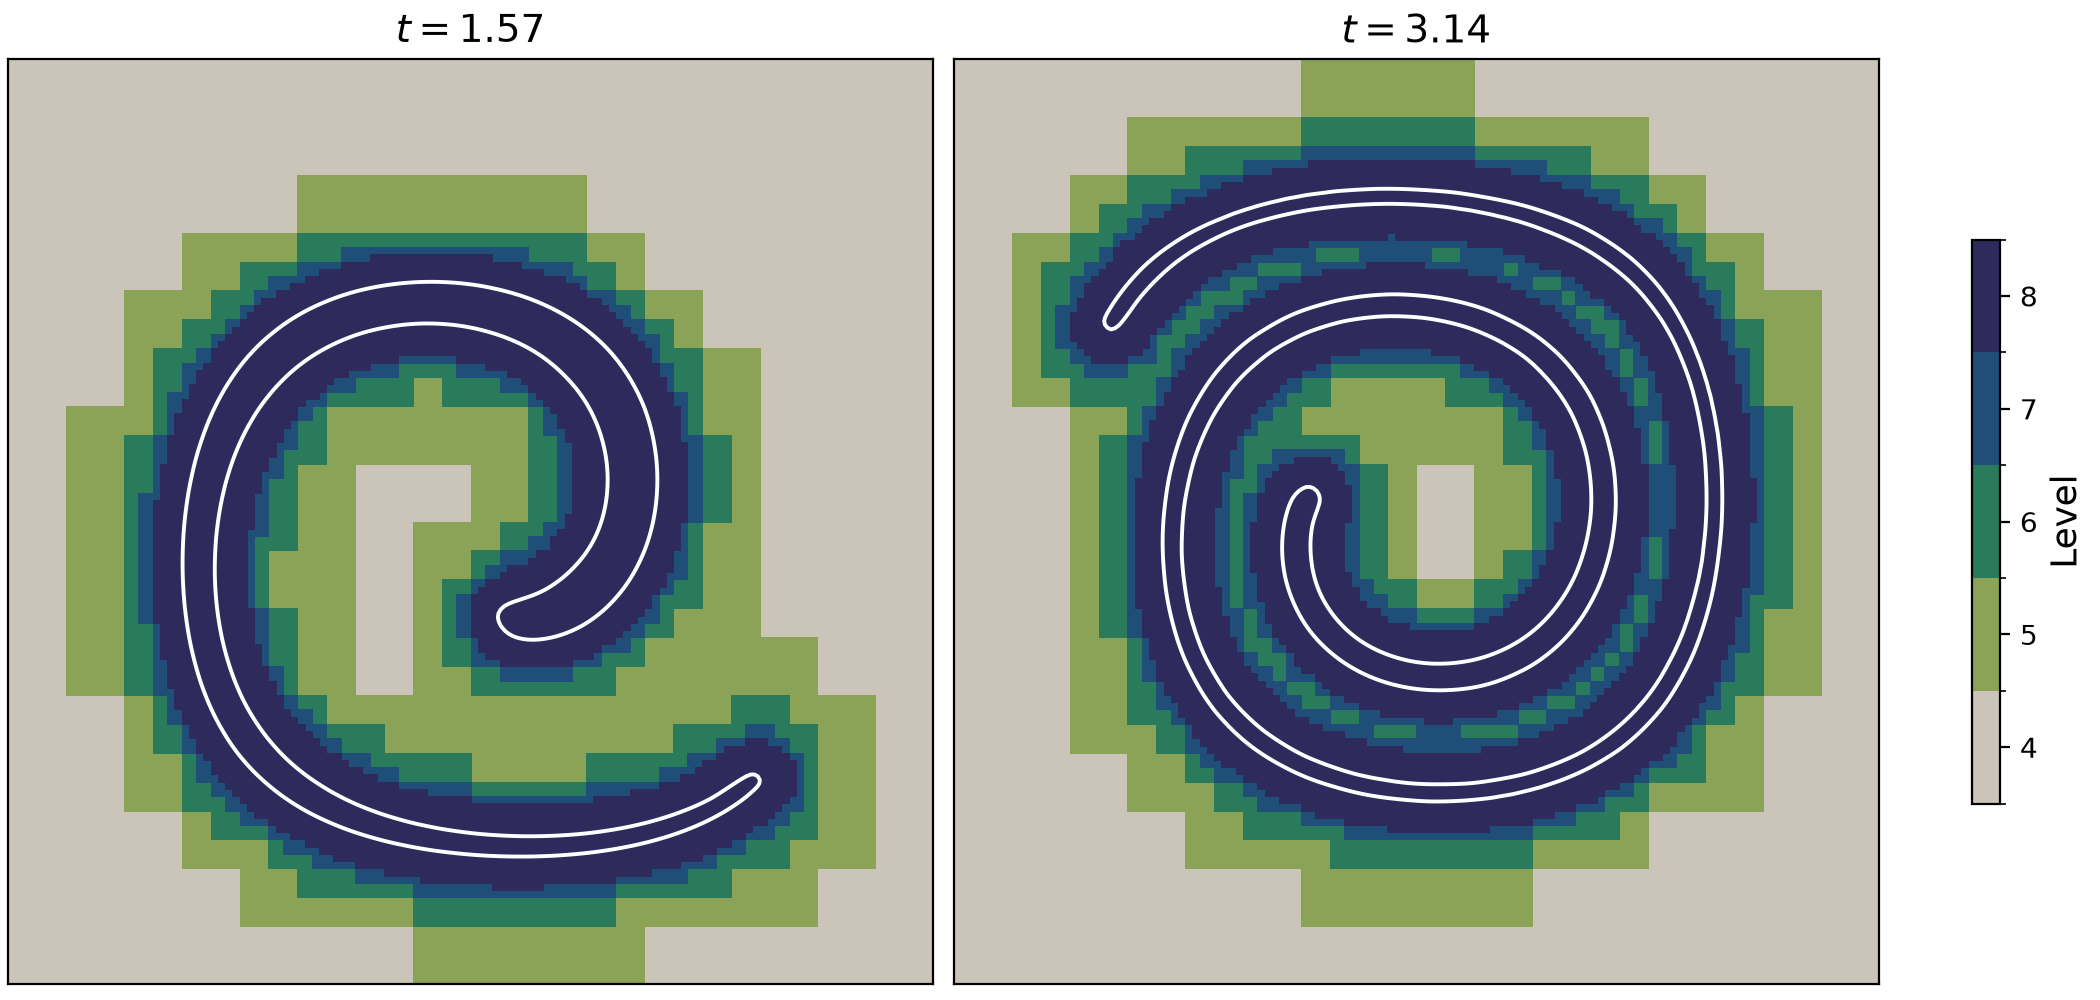
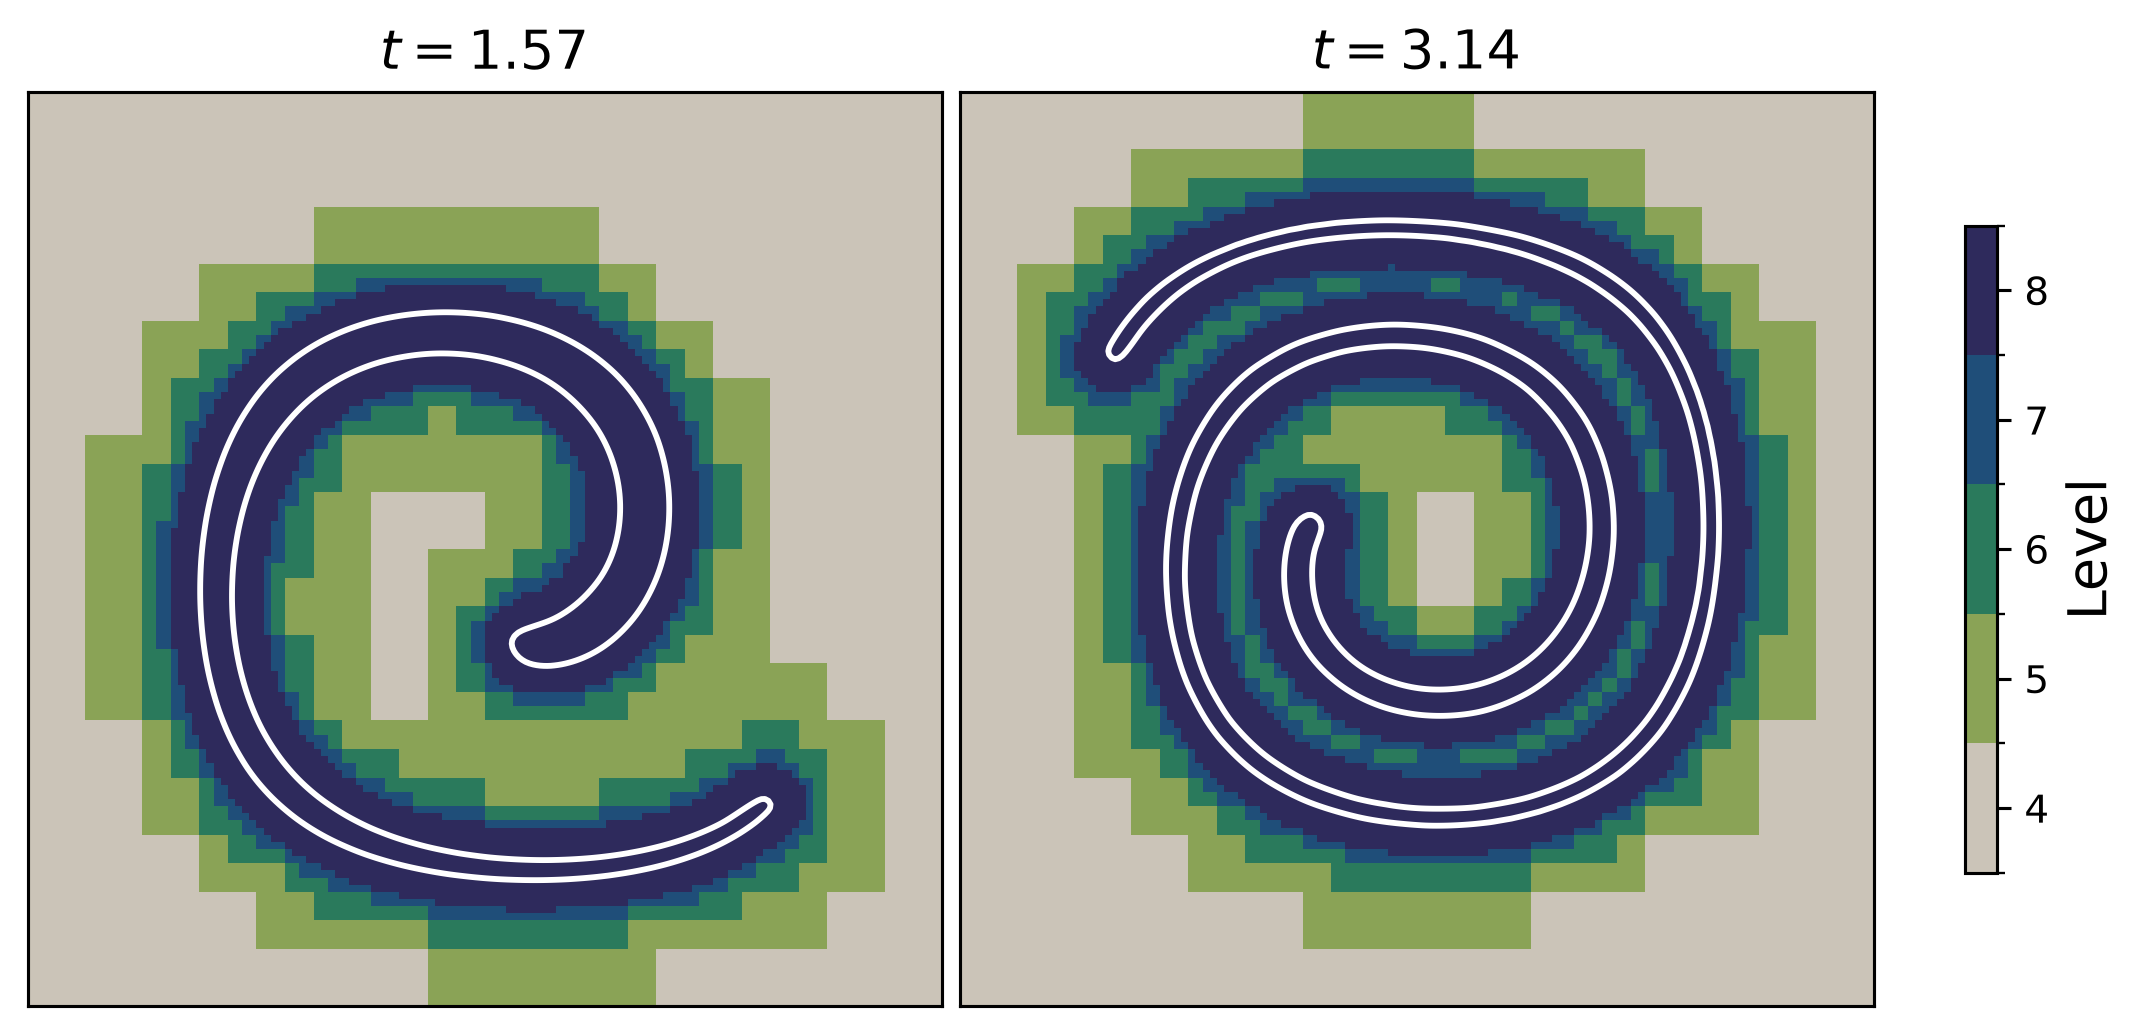
docs(tutorial): describe the level-set schemes written with the finite volume framework

diff --git a/docs/source/tutorial/level_set.md b/docs/source/tutorial/level_set.md
@@ -4,7 +4,7 @@ In this tutorial, we follow a circle that a vortex flow stretches into a spiral.
 The circle is the zero level of a level-set function, which we transport with a finite volume scheme on an adaptive mesh refinement (AMR) mesh between levels 4 and 8.
 At each time step, we adapt the mesh around the contour, transport the level-set function, then reinitialize it.
 
-The code shown on this page comes from the demo [`demos/FiniteVolume/level_set_AMR.cpp`](https://github.com/hpc-maths/samurai/blob/main/demos/FiniteVolume/level_set_AMR.cpp) and its operators in [`demos/FiniteVolume/stencil_field.hpp`](https://github.com/hpc-maths/samurai/blob/main/demos/FiniteVolume/stencil_field.hpp).
+The code shown on this page comes from the demo [`demos/FiniteVolume/level_set_AMR.cpp`](https://github.com/hpc-maths/samurai/blob/main/demos/FiniteVolume/level_set_AMR.cpp) and its schemes in [`demos/FiniteVolume/level_set_schemes.hpp`](https://github.com/hpc-maths/samurai/blob/main/demos/FiniteVolume/level_set_schemes.hpp).
 
 ## Before you start
 
@@ -130,32 +130,26 @@ All levels advance with the same time step $\Delta t$.
 
 The papers cited on this page transport the level-set function with a semi-Lagrangian method.
 The demo discretizes {eq}`eq-level-set-transport` with an explicit finite volume scheme instead.
+Since $\mathbf{u}$ is divergence-free, {eq}`eq-level-set-transport` is also the conservation law $\partial_t \phi + \nabla \cdot (\phi \mathbf{u}) = 0$.
 On each leaf, with $F$ the numerical flux along $x$ and $G$ the numerical flux along $y$:
 
 $$
 \phi_{j, k, h}^{n+1} = \phi_{j, k, h}^{n} - \frac{\Delta t}{\Delta x_j} \left( F_{j, k+1/2, h}^n - F_{j, k-1/2, h}^n + G_{j, k, h+1/2}^n - G_{j, k, h-1/2}^n \right).
 $$ (eq-level-set-fv)
 
-In the demo, this reads:
-
-```{literalinclude} ../../../demos/FiniteVolume/level_set_AMR.cpp
-:language: c++
-:lines: 233-238
-:dedent:
-```
-
-`samurai::upwind_variable` is a finite volume operator: it derives from `samurai::finite_volume`, which computes the sum of the fluxes (right flux minus left flux, plus up flux minus down flux) divided by $\Delta x_j$ (see `include/samurai/stencil_field.hpp`).
-The operator itself only defines the four fluxes `left_flux` ($F_{j, k-1/2, h}^n$), `right_flux` ($F_{j, k+1/2, h}^n$), `down_flux` ($G_{j, k, h-1/2}^n$) and `up_flux` ($G_{j, k, h+1/2}^n$).
+The scheme uses the finite volume framework of {{ project }} (see the {doc}`finite volume schemes reference <../reference/finite_volume_schemes>`): the demo defines the numerical flux on a face, and {{ project }} computes {eq}`eq-level-set-fv` on every leaf.
+Each flux is computed once per face and added to the two leaves that share it, with opposite signs.
+Where two leaves of different levels meet, the flux is computed between two cells of the finer level, one of them a ghost cell, and the coarse leaf receives the fluxes through its fine faces, so the scheme stays conservative across level jumps.
 
 ### The limited Lax-Wendroff flux
 
 The flux is the limited Lax-Wendroff flux of {ref}`LeVeque <ref-leveque>` (equation 6.32), with a limiter $\psi : \mathbb{R} \to [0, 2]$.
-On the left interface of cell $(j, k, h)$:
+On the face between the cells $(j, k, h)$ and $(j, k+1, h)$:
 
 $$
 \begin{aligned}
-F_{j, k-1/2, h}^n = {} & \left( u_{j, k-1/2, h}^n \right)^- \phi_{j, k, h}^n + \left( u_{j, k-1/2, h}^n \right)^+ \phi_{j, k-1, h}^n \\
-& + \frac{1}{2} \left| u_{j, k-1/2, h}^n \right| \left( 1 - \left| u_{j, k-1/2, h}^n \right| \frac{\Delta t}{\Delta x_j} \right) \psi\left( \theta_{j, k-1/2, h}^n \right) \left( \phi_{j, k, h}^n - \phi_{j, k-1, h}^n \right).
+F_{j, k+1/2, h}^n = {} & \left( u_{j, k+1/2, h}^n \right)^+ \phi_{j, k, h}^n + \left( u_{j, k+1/2, h}^n \right)^- \phi_{j, k+1, h}^n \\
+& + \frac{1}{2} \left| u_{j, k+1/2, h}^n \right| \left( 1 - \left| u_{j, k+1/2, h}^n \right| \frac{\Delta t}{\Delta x_j} \right) \psi\left( \theta_{j, k+1/2, h}^n \right) \left( \phi_{j, k+1, h}^n - \phi_{j, k, h}^n \right).
 \end{aligned}
 $$ (eq-level-set-flux)
 
@@ -166,40 +160,59 @@ $$
 \psi(\theta) = \max\left( 0, \min\left( 2\theta, \frac{1 + \theta}{2}, 2 \right) \right).
 $$
 
-Following equation 6.36 of {ref}`LeVeque <ref-leveque>`, $\theta$ is the ratio of the jump at the upwind interface to the jump at the current interface:
+Following equation 6.36 of {ref}`LeVeque <ref-leveque>`, $\theta$ is the ratio of the jump at the upwind face to the jump at the current face:
 
 $$
-\theta_{j, k-1/2, h}^n =
+\theta_{j, k+1/2, h}^n =
 \begin{cases}
-\dfrac{\phi_{j, k-1, h}^n - \phi_{j, k-2, h}^n}{\phi_{j, k, h}^n - \phi_{j, k-1, h}^n} & \text{if } u_{j, k-1/2, h}^n \geq 0, \\[2ex]
-\dfrac{\phi_{j, k+1, h}^n - \phi_{j, k, h}^n}{\phi_{j, k, h}^n - \phi_{j, k-1, h}^n} & \text{if } u_{j, k-1/2, h}^n < 0.
+\dfrac{\phi_{j, k, h}^n - \phi_{j, k-1, h}^n}{\phi_{j, k+1, h}^n - \phi_{j, k, h}^n} & \text{if } u_{j, k+1/2, h}^n \geq 0, \\[2ex]
+\dfrac{\phi_{j, k+2, h}^n - \phi_{j, k+1, h}^n}{\phi_{j, k+1, h}^n - \phi_{j, k, h}^n} & \text{if } u_{j, k+1/2, h}^n < 0.
 \end{cases}
 $$
 
 When the denominator is smaller than $10^{-8}$ in absolute value, the code replaces it with $10^{-8}$.
 
-The velocity on the interface comes from a quadratic interpolation of the first velocity component in the cells $k-1$, $k$ and $k+1$:
+The velocity on the face is the cubic interpolation of the first velocity component in the cells $k-1$ to $k+2$:
 
 $$
-u_{j, k-1/2, h}^n = \frac{3}{8} u_{j, k-1, h}^n + \frac{3}{4} u_{j, k, h}^n - \frac{1}{8} u_{j, k+1, h}^n,
-\qquad
-u_{j, k+1/2, h}^n = \frac{3}{8} u_{j, k+1, h}^n + \frac{3}{4} u_{j, k, h}^n - \frac{1}{8} u_{j, k-1, h}^n.
+u_{j, k+1/2, h}^n = \frac{1}{16} \left( -u_{j, k-1, h}^n + 9 u_{j, k, h}^n + 9 u_{j, k+1, h}^n - u_{j, k+2, h}^n \right).
 $$
 
-Each cell computes the velocity on its own interfaces from the three cells centered on itself.
-$G$ is built the same way along $y$, with the second velocity component $v$ and the indices $h - 2$ to $h + 2$.
+The flux on a face therefore reads the four cells $k-1$ to $k+2$.
+$G$ is built the same way along $y$, with the second velocity component $v$ and the indices $h - 1$ to $h + 2$.
 As {ref}`LeVeque <ref-leveque>` points out (p. 163), we cannot expect this finite volume scheme to be formally second-order accurate when the velocity field $\mathbf{u}$ is not uniform.
 
-In `stencil_field.hpp`, `flux` computes {eq}`eq-level-set-flux` from the interface velocity `vel`, the left and right values `ul` and `ur`, $\Delta t / \Delta x_j$ (`lb`) and $\theta$ (`r`).
-`left_flux` computes the interface velocity and $\theta$, then calls `flux`:
+### The flux in the code
 
-```{literalinclude} ../../../demos/FiniteVolume/stencil_field.hpp
+`make_level_set_convection` builds the scheme:
+
+```{literalinclude} ../../../demos/FiniteVolume/level_set_schemes.hpp
 :language: c++
-:lines: 92-103,130-144,155-193
+:lines: 19-67
+```
+
+- `FluxConfig` declares a non-linear flux (`SchemeType::NonLinear`) on a stencil of 4 cells. It reads the scalar field $\phi$, returns a scalar field, and takes the velocity field as a parameter field.
+- With 4 cells, the stencil in the direction `d` is the default one, $\{-1, 0, 1, 2\}$: `phi[0]` to `phi[3]` are $\phi_{j, k-1, h}$ to $\phi_{j, k+2, h}$, and the face lies between `phi[1]` and `phi[2]`. `data.cells` holds the same cells, in which the lambda reads the velocity.
+- `data.cell_length` is $\Delta x_j$, the length of the cells the flux is computed with, which is the finer level at a level jump.
+- `cons_flux_function` defines a conservative flux: the value that leaves one cell enters the other.
+- `dt` is captured by reference, because the demo shortens the last time step to stop at $T$.
+- `set_parameter_field(u)` makes the scheme fill the ghost cells of $\mathbf{u}$ before it is applied, when they are not up to date.
+
+The demo builds the scheme once, before the time loop:
+
+```{literalinclude} ../../../demos/FiniteVolume/level_set_AMR.cpp
+:language: c++
+:lines: 195-198
 :dedent:
 ```
 
-`right_flux`, `down_flux` and `up_flux` follow the same pattern.
+At each time step, `convection(phi)` returns a field that holds, on each leaf, the term in parentheses of {eq}`eq-level-set-fv` divided by $\Delta x_j$:
+
+```{literalinclude} ../../../demos/FiniteVolume/level_set_AMR.cpp
+:language: c++
+:lines: 238-243
+:dedent:
+```
 
 (reinitialize-the-level-set-function)=
 
@@ -268,24 +281,30 @@ The reinitialization runs on every leaf, at every level.
 Since only the steady state matters, the levels do not need to share a fictitious time step: a cell of level $j$ advances with $\Delta \tau_j = \Delta x_j / 4$, in the same way as Min and Gibou adapt the time step to each cell (section 6.1).
 On the coarse cells, the reinitialization keeps $\phi$ close to a signed distance, which the refinement criterion relies on (see {ref}`adapt-the-mesh`).
 
-In the demo, `phihat` is $\overline{\phi}$ and the ghost cells of each stage are updated before $H$ reads them:
+In the demo, `phi_0` is $\phi^0$, `phihat` is $\overline{\phi}$, and the ghost cells of each stage are updated before the scheme reads them:
 
 ```{literalinclude} ../../../demos/FiniteVolume/level_set_AMR.cpp
 :language: c++
-:lines: 240-246,251-259
+:lines: 245-260
 :dedent:
 ```
 
 `dt_fict` is $\Delta \tau_{\overline{J}} = \Delta x_{\overline{J}} / 4$.
-`H_wrap` returns $\left( \Delta x_j / \Delta x_{\overline{J}} \right) H(\phi)$, so that `dt_fict * H_wrap(...)` is $\Delta \tau_j \, H(\phi)$ on each level:
 
-```{literalinclude} ../../../demos/FiniteVolume/stencil_field.hpp
+### The Hamiltonian in the code
+
+$H(\phi)$ is not the divergence of a flux, so the demo writes it as a cell-based scheme: a function that computes the value on a cell from the values on a stencil around it.
+It is built like the {doc}`local schemes <../reference/local_schemes>`, with a star stencil instead of a single cell:
+
+```{literalinclude} ../../../demos/FiniteVolume/level_set_schemes.hpp
 :language: c++
-:lines: 10-80
-:dedent:
+:lines: 81-146
 ```
 
-In this code, `dxm` and `dxp` are $D_x^- \phi$ and $D_x^+ \phi$, and `dym` and `dyp` are $D_y^- \phi$ and $D_y^+ \phi$.
+- `StarStencilSchemeConfig` declares a non-linear scheme on the star stencil of radius 2: the cell and its two neighbors on each side in each direction, in the order of the comment.
+- The scheme function receives the cells of the stencil and $\phi$, and sets `value` on the center cell. `d_minus` and `d_plus` are $D^- \phi$ and $D^+ \phi$ in the direction `d`, and the loop over the directions works in any dimension.
+- `phi_0` is captured by reference. The demo declares it once, next to the scheme, and copies $\phi$ into it after each transport step (`phi_0 = phi`).
+- The function returns $\left( \Delta x_j / \Delta x_{\overline{J}} \right) H(\phi)$, so that `dt_fict * reinitialization(phi)` is $\Delta \tau_j \, H(\phi)$ on each level.
 
 (adapt-the-mesh)=
 
@@ -319,7 +338,7 @@ The adaptation loop then applies the tags until the mesh no longer changes:
 
 ```{literalinclude} ../../../demos/FiniteVolume/level_set_AMR.cpp
 :language: c++
-:lines: 211-212,214-222
+:lines: 216-217,219-227
 :dedent:
 ```
 
@@ -331,7 +350,7 @@ In each pass:
 
    ```{literalinclude} ../../../demos/FiniteVolume/level_set_AMR.cpp
    :language: c++
-   :lines: 197-202
+   :lines: 202-207
    :dedent:
    ```
 
@@ -369,13 +388,13 @@ At $t = 3.14$, the cells where $\phi < 0$ cover an area of $0.0699$, $1.1\,\%$ l
 
 ## What we built
 
-We transported a level-set function with a limited Lax-Wendroff finite volume scheme on an AMR mesh, reinitialized it on every level with a TVD-RK2 scheme on the Godunov Hamiltonian, and adapted the mesh to the contour with a user-defined criterion, {cpp:func}`samurai::graduation` and {cpp:func}`samurai::update_field`.
+We transported a level-set function on an AMR mesh with a limited Lax-Wendroff flux written in the finite volume framework of {{ project }}, reinitialized it on every level with a cell-based scheme for the Godunov Hamiltonian and a TVD-RK2 time stepping, and adapted the mesh to the contour with a user-defined criterion, {cpp:func}`samurai::graduation` and {cpp:func}`samurai::update_field`.
 
 ## Next steps
 
 - [`demos/FiniteVolume/level_set_MRA.cpp`](https://github.com/hpc-maths/samurai/blob/main/demos/FiniteVolume/level_set_MRA.cpp) solves the same problem on a multiresolution mesh.
 - The {doc}`graduation tutorial <graduation>` explains what graduation does to a mesh.
-- The {doc}`finite volume schemes reference <../reference/finite_volume_schemes>` describes the operators {{ project }} provides to write schemes without defining fluxes by hand.
+- The {doc}`finite volume schemes reference <../reference/finite_volume_schemes>` describes the other flux types and the ready-made operators of {{ project }}, such as `make_convection_upwind` and `make_convection_weno5`.
 
 ## References
 
